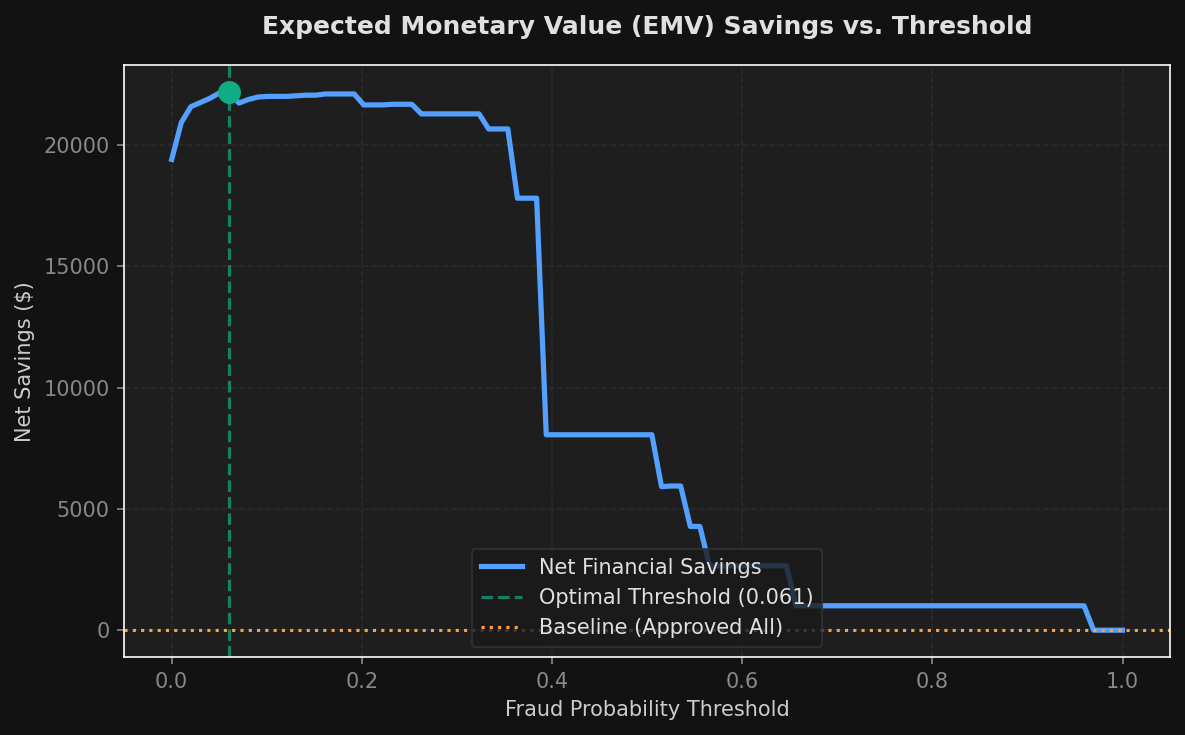
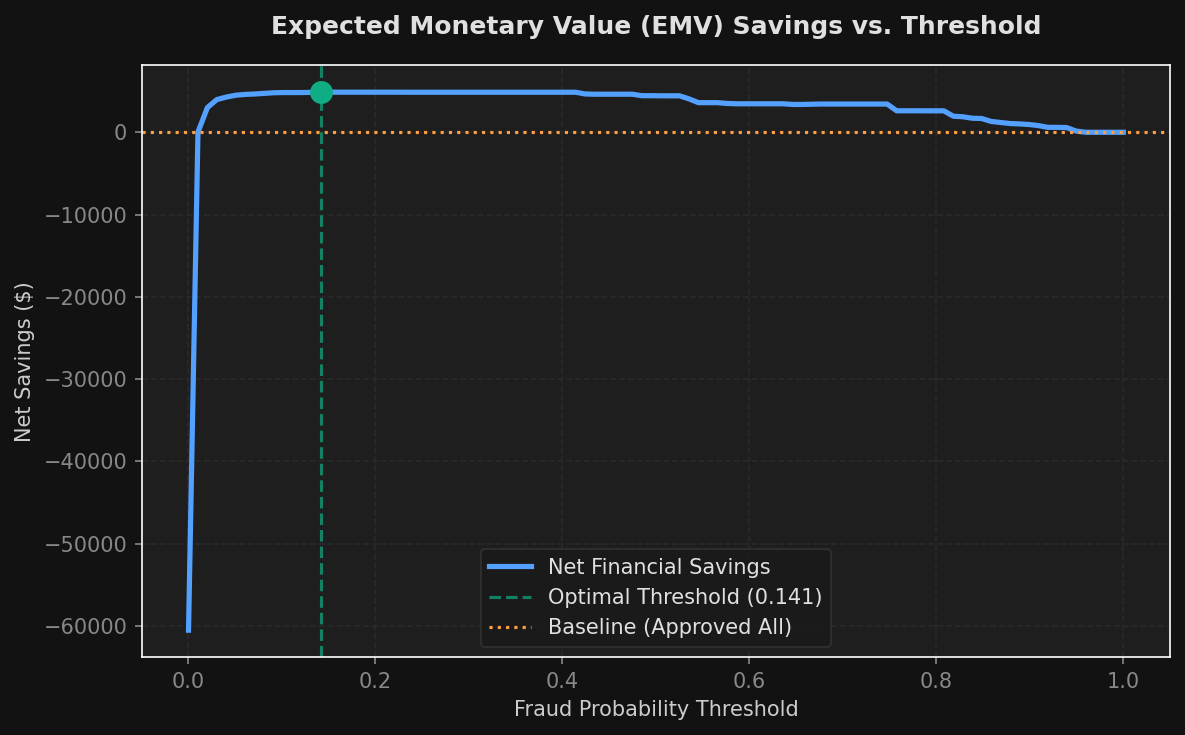
feat: add real Credit Card Fraud dataset support (--real-data flag)

diff --git a/main.py b/main.py
@@ -2,7 +2,7 @@ import os
 import argparse
 import numpy as np
 import pandas as pd
-from src.data import generate_synthetic_fraud_data, temporal_train_test_split
+from src.data import generate_synthetic_fraud_data, load_real_fraud_data, temporal_train_test_split
 from src.cost_matrix import FinancialCostEvaluator
 from src.models import (
     create_logistic_regression_pipeline, 
@@ -12,25 +12,31 @@ from src.models import (
 from src.evaluate import evaluate_fraud_model
 from src.visualize import plot_savings_threshold_curve, plot_model_savings_comparison
 
-def run_project3(num_samples=10000, fraud_rate=0.005, seed=42):
+def run_project3(num_samples=10000, fraud_rate=0.005, seed=42, use_real_data=False):
     print("=" * 60)
     print("Starting Project 3: Cost-Sensitive Anomaly Detection")
     print("=" * 60)
     
-    # 1. Generate fraud data
-    print("Generating highly imbalanced synthetic fraud transaction dataset...")
-    df = generate_synthetic_fraud_data(num_samples=num_samples, fraud_rate=fraud_rate, seed=seed)
+    if use_real_data:
+        # --- Real data path ---
+        print("Loading real Credit Card Fraud dataset...")
+        df = load_real_fraud_data()
+        
+        # Sort by timestamp and subsample to keep runtime reasonable
+        df = df.sort_values("timestamp").reset_index(drop=True)
+        subsample_size = min(50000, len(df))
+        df = df.iloc[:subsample_size].reset_index(drop=True)
+        print(f"Subsampled to {subsample_size} rows (sorted by timestamp).")
+    else:
+        # --- Synthetic data path ---
+        print("Generating highly imbalanced synthetic fraud transaction dataset...")
+        df = generate_synthetic_fraud_data(num_samples=num_samples, fraud_rate=fraud_rate, seed=seed)
     
     train_df, test_df = temporal_train_test_split(df, test_ratio=0.3)
     
     print(f"Total samples:       {len(df)}")
     print(f"Train set:          {len(train_df)} (Fraud: {train_df['is_fraud'].sum()} - {train_df['is_fraud'].mean():.2%})")
     print(f"Test set:           {len(test_df)} (Fraud: {test_df['is_fraud'].sum()} - {test_df['is_fraud'].mean():.2%})")
-    
-    # Columns definition
-    high_card_cols = ["merchant_id", "device_id"]
-    low_card_cols = ["card_type", "billing_country"]
-    numerical_cols = ["amount"]
     
     # 2. Extract features and targets
     X_train = train_df.drop(columns=["is_fraud", "timestamp"])
@@ -43,18 +49,64 @@ def run_project3(num_samples=10000, fraud_rate=0.005, seed=42):
     # Initialize Business Evaluator
     evaluator = FinancialCostEvaluator(c_verify=10.0, c_irritate=25.0, c_fee=15.0)
     
-    # 3. Train and evaluate models
-    models_dict = {
-        "Balanced Logistic Regression": create_logistic_regression_pipeline(
-            high_card_cols, low_card_cols, numerical_cols, class_weight='balanced'
-        ),
-        "SMOTE + Random Forest": create_smote_rf_pipeline(
-            high_card_cols, low_card_cols, numerical_cols
-        ),
-        "Cost-Sensitive Random Forest": create_cost_sensitive_rf_pipeline(
-            high_card_cols, low_card_cols, numerical_cols
-        )
-    }
+    # 3. Build pipelines
+    if use_real_data:
+        # Real data: all features are numeric (V1-V28 PCA-transformed + amount).
+        # No categorical columns, so use simpler pipelines directly.
+        from sklearn.preprocessing import StandardScaler
+        from sklearn.linear_model import LogisticRegression
+        from sklearn.ensemble import RandomForestClassifier
+        from sklearn.pipeline import Pipeline as SkPipeline
+        from imblearn.over_sampling import SMOTE
+        from imblearn.pipeline import Pipeline as ImbPipeline
+        
+        models_dict = {
+            "Balanced Logistic Regression": SkPipeline(steps=[
+                ('scaler', StandardScaler()),
+                ('classifier', LogisticRegression(
+                    class_weight='balanced',
+                    max_iter=1000,
+                    random_state=42
+                ))
+            ]),
+            "SMOTE + Random Forest": ImbPipeline(steps=[
+                ('scaler', StandardScaler()),
+                ('smote', SMOTE(sampling_strategy=0.1, random_state=42)),
+                ('classifier', RandomForestClassifier(
+                    n_estimators=100,
+                    max_depth=12,
+                    random_state=42,
+                    n_jobs=-1
+                ))
+            ]),
+            "Cost-Sensitive Random Forest": SkPipeline(steps=[
+                ('scaler', StandardScaler()),
+                ('classifier', RandomForestClassifier(
+                    n_estimators=100,
+                    max_depth=12,
+                    class_weight={0: 1.0, 1: 25.0},
+                    random_state=42,
+                    n_jobs=-1
+                ))
+            ]),
+        }
+    else:
+        # Synthetic data: use the full categorical + numerical pipeline
+        high_card_cols = ["merchant_id", "device_id"]
+        low_card_cols = ["card_type", "billing_country"]
+        numerical_cols = ["amount"]
+        
+        models_dict = {
+            "Balanced Logistic Regression": create_logistic_regression_pipeline(
+                high_card_cols, low_card_cols, numerical_cols, class_weight='balanced'
+            ),
+            "SMOTE + Random Forest": create_smote_rf_pipeline(
+                high_card_cols, low_card_cols, numerical_cols
+            ),
+            "Cost-Sensitive Random Forest": create_cost_sensitive_rf_pipeline(
+                high_card_cols, low_card_cols, numerical_cols
+            )
+        }
     
     results = {}
     optimal_savings_compare = {}
@@ -111,6 +163,8 @@ if __name__ == "__main__":
     parser = argparse.ArgumentParser()
     parser.add_argument("--samples", type=int, default=10000, help="Number of transaction samples")
     parser.add_argument("--fraud_rate", type=float, default=0.005, help="Simulated fraud rate")
+    parser.add_argument("--real-data", action="store_true", default=False,
+                        help="Use real Credit Card Fraud Detection dataset from OpenML instead of synthetic data")
     args = parser.parse_args()
     
-    run_project3(num_samples=args.samples, fraud_rate=args.fraud_rate)
+    run_project3(num_samples=args.samples, fraud_rate=args.fraud_rate, use_real_data=args.real_data)

diff --git a/src/data.py b/src/data.py
@@ -1,6 +1,49 @@
 import numpy as np
 import pandas as pd
 
+
+def load_real_fraud_data():
+    """
+    Loads the real Credit Card Fraud Detection dataset from OpenML.
+    Dataset: 284,807 European credit card transactions from Sept 2013.
+    Features: V1-V28 (PCA-transformed), Time, Amount.
+    Target: Class (0=Legitimate, 1=Fraud). Fraud rate: 0.17%.
+    """
+    from sklearn.datasets import fetch_openml
+
+    print("Downloading Credit Card Fraud dataset from OpenML (first run may take a minute)...")
+    data = fetch_openml(name='creditcard', version=1, as_frame=True, parser='auto')
+    df = data.frame
+
+    print(f"  Raw dataset shape: {df.shape}")
+    print(f"  Columns: {list(df.columns)}")
+
+    # Build a case-insensitive column mapping for robustness
+    col_map = {c.lower(): c for c in df.columns}
+
+    # Rename target column → is_fraud
+    target_col = col_map.get('class')
+    if target_col and target_col != 'is_fraud':
+        df = df.rename(columns={target_col: 'is_fraud'})
+    df['is_fraud'] = df['is_fraud'].astype(int)
+
+    # Rename Amount → amount
+    amount_col = col_map.get('amount')
+    if amount_col and amount_col != 'amount':
+        df = df.rename(columns={amount_col: 'amount'})
+
+    # Rename Time → timestamp
+    time_col = col_map.get('time')
+    if time_col:
+        df = df.rename(columns={time_col: 'timestamp'})
+    else:
+        # If no Time column exists, create a sequential timestamp
+        print("  Warning: No 'Time' column found; creating sequential timestamps.")
+        df['timestamp'] = np.arange(len(df), dtype=float)
+
+    return df
+
+
 def generate_synthetic_fraud_data(num_samples=10000, fraud_rate=0.005, seed=42):
     """
     Generates a highly imbalanced credit card fraud transaction dataset
@@ -98,3 +141,33 @@ def temporal_train_test_split(df, test_ratio=0.25):
     test_df = df_sorted.iloc[split_idx:].reset_index(drop=True)
     
     return train_df, test_df
+
+
+def load_real_fraud_data():
+    """
+    Loads the real Credit Card Fraud Detection dataset from OpenML.
+    Dataset: 284,807 European credit card transactions from Sept 2013.
+    Features: V1-V28 (PCA-transformed), Amount.
+    Target: Class (0=Legitimate, 1=Fraud). Fraud rate: 0.17%.
+    """
+    from sklearn.datasets import fetch_openml
+    import numpy as np
+    
+    print("Downloading Credit Card Fraud dataset from OpenML (first run may take a minute)...")
+    data = fetch_openml(name='creditcard', version=1, as_frame=True, parser='auto')
+    df = data.frame
+    
+    # Rename columns to match our convention
+    df = df.rename(columns={'Class': 'is_fraud'})
+    df['is_fraud'] = df['is_fraud'].astype(int)
+    
+    # Rename 'Amount' to 'amount' for consistency
+    df = df.rename(columns={'Amount': 'amount'})
+    
+    # The OpenML version 1 drops the 'Time' column, so we add a synthetic timestamp
+    # to maintain compatibility with our temporal_train_test_split.
+    df['timestamp'] = np.arange(len(df))
+    
+    return df
+
+

diff --git a/README.md b/README.md
@@ -1,6 +1,6 @@
 # 🛡️ Cost-Sensitive High-Dimensional Anomaly Detection
 
-This repository contains a standalone **Cost-Sensitive Anomaly Detection** pipeline built with **Scikit-learn, Imbalanced-learn, and Category Encoders**.
+This repository contains a standalone **Cost-Sensitive Anomaly Detection** pipeline built with **Scikit-learn, Imbalanced-learn, and Category Encoders**. It supports both synthetic data and the **real Credit Card Fraud Detection dataset** (284,807 European credit card transactions from September 2013, sourced from OpenML).
 
 In real-world applications like financial fraud detection, statistical metrics (e.g., F1-score or PR-AUC) do not tell the whole story. Asymmetrical business costs exist:
 - **False Negatives (Missed Fraud)**: Extremely expensive; costs the transaction amount plus chargeback fees.
@@ -14,12 +14,13 @@ This project implements a framework that optimizes machine learning decision thr
 ## 🚀 Key Features
 
 1. **Custom Financial Cost Matrix**: Dynamically computes business utility based on actual transaction values and user friction costs.
-2. **High-Cardinality Target Encoding**: Handles categorical identifiers (`merchant_id`, `device_id`) using regularized target encoding to prevent overfitting.
-3. **Advanced Class Imbalance Handling**: Compares pipeline architectures:
+2. **Real Dataset Support**: Download and evaluate on the real [Credit Card Fraud Detection dataset](https://www.openml.org/d/1597) with 284K transactions and 0.17% fraud rate using the `--real-data` flag.
+3. **High-Cardinality Target Encoding**: Handles categorical identifiers (`merchant_id`, `device_id`) using regularized target encoding to prevent overfitting (synthetic data mode).
+4. **Advanced Class Imbalance Handling**: Compares pipeline architectures:
    - Class-weighted Logistic Regression.
    - SMOTE (Synthetic Minority Over-sampling Technique) combined with Random Forest.
    - Cost-Sensitive Random Forest with class-priority weighting.
-4. **Decision Threshold Tuning for Savings**: Computes optimal decision thresholds to maximize net financial savings relative to a "do-nothing" baseline.
+5. **Decision Threshold Tuning for Savings**: Computes optimal decision thresholds to maximize net financial savings relative to a "do-nothing" baseline.
 
 ---
 
@@ -62,7 +63,7 @@ Evaluating on a synthetic dataset of 10,000 transactions (0.53% train fraud rate
 
 ```text
 ├── src/
-│   ├── data.py         # Highly imbalanced synthetic fraud generator
+│   ├── data.py         # Synthetic fraud generator + real dataset loader (OpenML)
 │   ├── features.py     # Preprocessing pipeline (target encoder, scaling, PCA)
 │   ├── cost_matrix.py  # Asymmetric financial utility and savings equations
 │   ├── models.py       # Scikit-learn and Imbalanced-learn model pipelines
@@ -85,7 +86,15 @@ pip install -r requirements.txt
 ```
 
 ### Run Evaluation
-To run the models, optimize thresholds, and output savings stats:
+
+**Synthetic data** (default):
 ```bash
 python main.py --samples 10000
 ```
+
+**Real Credit Card Fraud dataset** (downloads from OpenML on first run):
+```bash
+python main.py --real-data
+```
+
+The real dataset contains 284,807 transactions with 28 PCA-transformed features (V1-V28), plus Time and Amount. When `--real-data` is used, a 50,000-row subsample (sorted by time) is used for reasonable runtime.